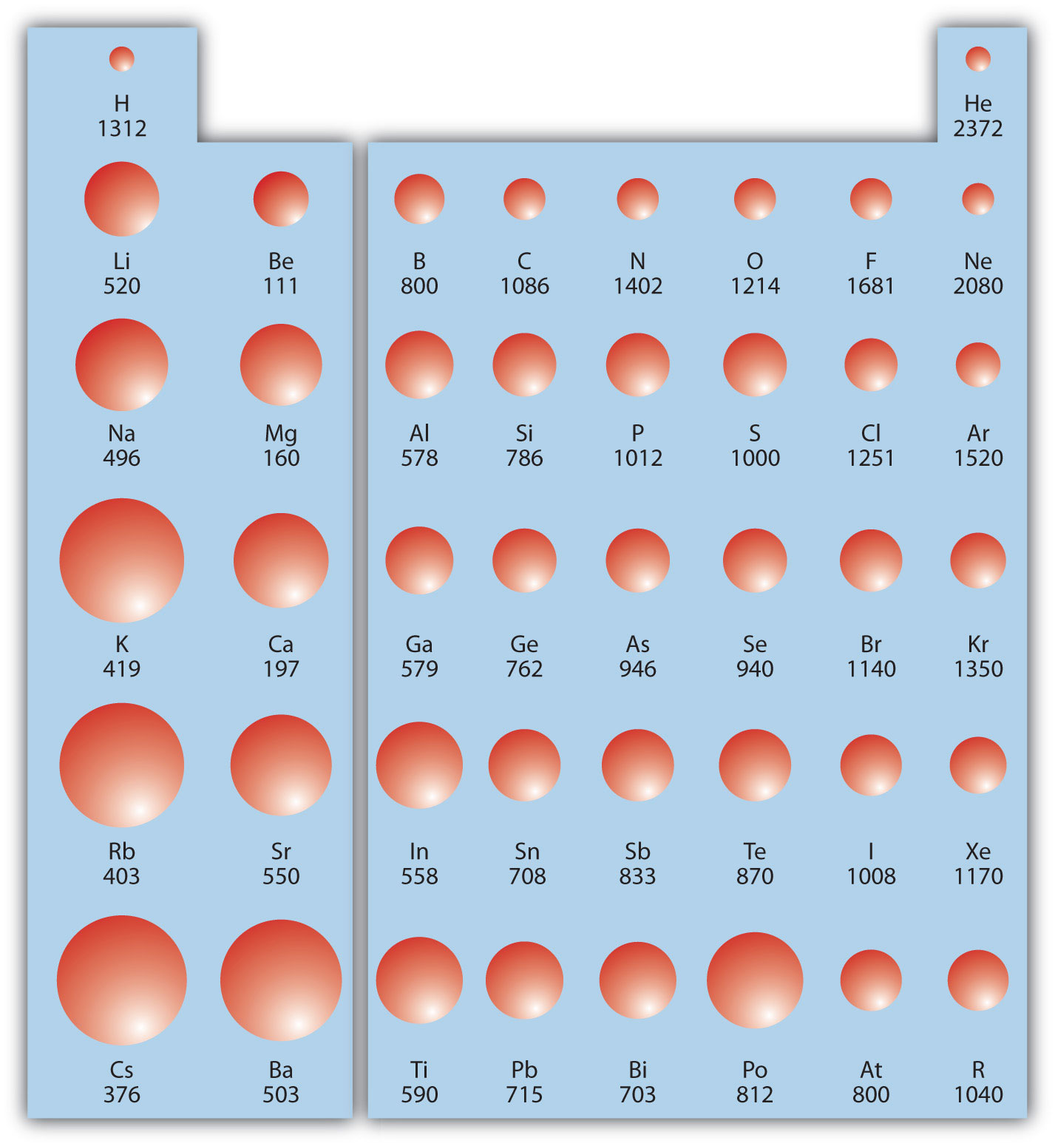
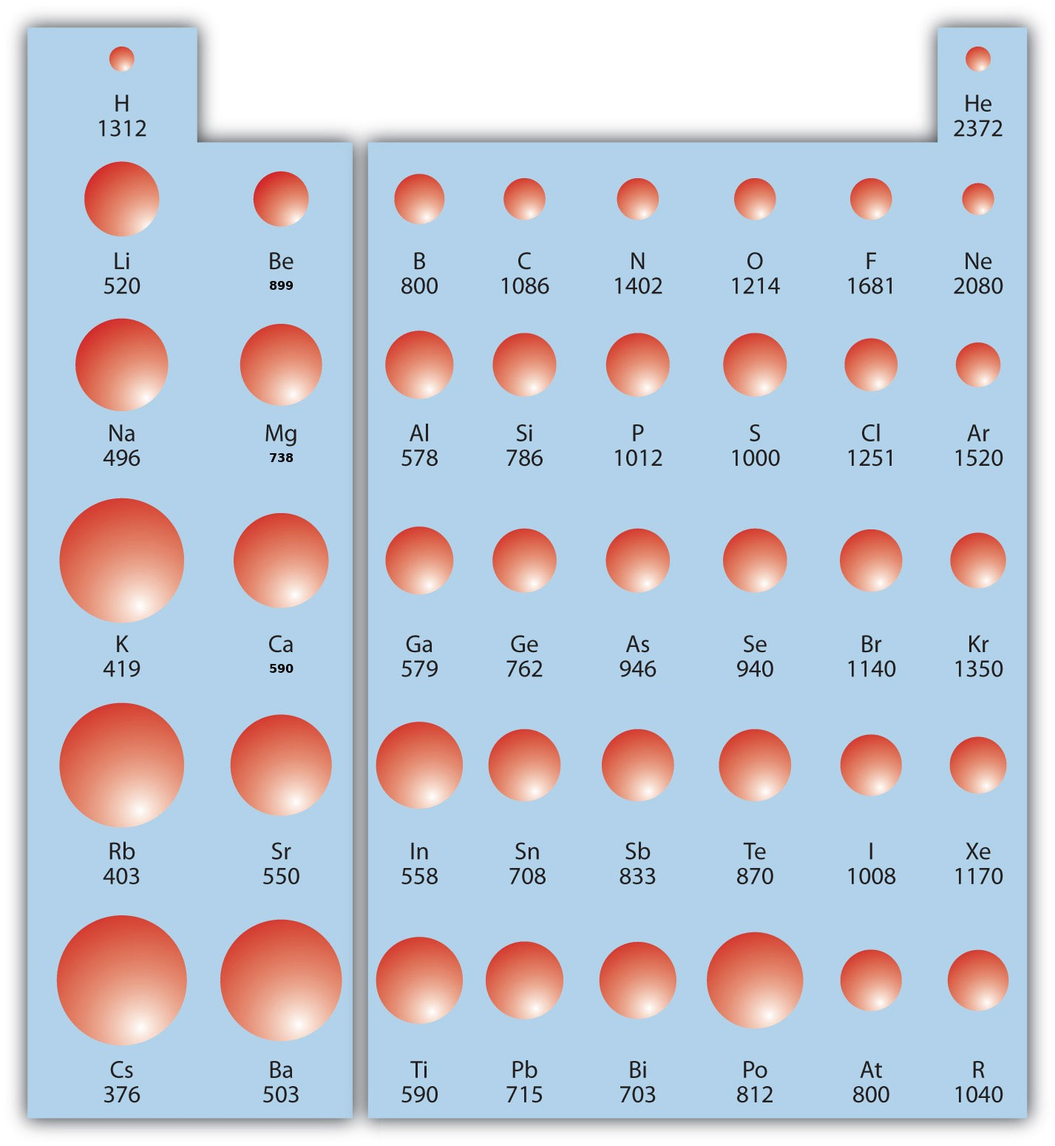
Correct calculation errors, bad constants, and misstated definitions.
The worked answers and tables now match the chemistry they describe, and the converter keeps those corrections on the next rebuild.

Changed region(s): [[0.2467, 0.5574, 0.2775, 0.5884], [0.2467, 0.3716, 0.2775, 0.4026], [0.2467, 0.2477, 0.2775, 0.2787]]

diff --git a/scripts/html_to_myst.py b/scripts/html_to_myst.py
@@ -470,6 +470,8 @@ def copy_image(ctx: Ctx, src: str) -> str:
         normalize_image(dest)
         if name == "86495288d4baa241709baaed0454b93a.jpg":
             correct_electronegativity_figure(dest)
+        if name == "e1287901f5021ca67a87677efadabcf6.jpg":
+            correct_ionization_energy_figure(dest)
         ctx.copied.add(name)
     rel = os.path.relpath(dest, ctx.out_file.parent)
     return Path(rel).as_posix()
@@ -1050,6 +1052,29 @@ def render_paragraph(el: Tag, ctx: Ctx) -> str:
     return target_line(ctx, el.get("id")) + "\n\n".join(parts)
 
 
+def correct_ionization_energy_figure(dest: Path) -> None:
+    """Figure 8.20 labels Be, Mg, and Ca with atomic radii (111, 160, 197 pm).
+
+    Those cells are ionization energies in kJ/mol: 899, 738, and 590.
+    Runs on the freshly copied source image.
+    """
+    from PIL import Image, ImageDraw, ImageFont
+
+    image = Image.open(dest).convert("RGB")
+    draw = ImageDraw.Draw(image)
+    font = ImageFont.truetype("/usr/share/fonts/truetype/dejavu/DejaVuSans-Bold.ttf", 16)
+    background = (178, 210, 235)
+    jobs = [
+        ((348, 372, 418, 400), "899", (381, 386)),
+        ((348, 606, 418, 632), "738", (381, 619)),
+        ((348, 890, 418, 918), "590", (381, 904)),
+    ]
+    for box, text, center in jobs:
+        draw.rectangle(box, fill=background)
+        draw.text(center, text, font=font, fill=(0, 0, 0), anchor="mm")
+    image.save(dest, "JPEG", quality=90, optimize=True)
+
+
 def correct_electronegativity_figure(dest: Path) -> None:
     """Figure 9.2 gives boron as 1.5 and sulfur as 3.5. Pauling values here are 2.0 and 2.5.
 
@@ -1096,6 +1121,115 @@ def apply_content_corrections(text: str) -> str:
         "Lead-208 does not spontaneously fission. Use this hypothetical equation to practice the mass-energy calculation:",
         "In the spontaneous fission of radium-226, the following reaction occurs:":
         "Radium-226 decays by alpha emission, not by the split below. Use the equation to practice the mass-energy calculation:",
+        "positive if you move the decimal point to the right and negative if you move the decimal point to the left":
+        "positive if you move the decimal point to the left and negative if you move the decimal point to the right",
+        "One Fahrenheit degree is nine-fifths the size of a Celsius degree.":
+        "One Fahrenheit degree is five-ninths the size of a Celsius degree.",
+        "about one in a million": "about one in 6,400",
+        """```{solution} ex:ball-ch04-s01-qs01-qd01-qa13
+:label: sol:ball-ch04-s01-qs01-qd01-qa13
+:class: dropdown
+
+N<sub>2</sub>(g) + 3H<sub>2</sub>(g) → 2NH<sub>3</sub>(g)
+```""":
+        """```{solution} ex:ball-ch04-s01-qs01-qd01-qa13
+:label: sol:ball-ch04-s01-qs01-qd01-qa13
+:class: dropdown
+
+N<sub>2</sub>(g) + 2H<sub>2</sub>(g) → N<sub>2</sub>H<sub>4</sub>(g)
+```""",
+        "Compounds of SO<sub>4</sub><sup>2</sup>": "Compounds of SO<sub>4</sub><sup>2−</sup>",
+        "HI(aq) + KOH(aq) → KCl(aq) + H<sub>2</sub>O(ℓ)":
+        "HI(aq) + KOH(aq) → KI(aq) + H<sub>2</sub>O(ℓ)",
+        r"{\text{4H}}_{\text{3}}{\text{PO}}_{\text{4}}": r"{\text{4H}}_{\text{3}}{\text{PO}}_{\text{3}}",
+        """```{solution} ex:ball-ch05-s07-qs01-qd01-qa01
+:label: sol:ball-ch05-s07-qs01-qd01-qa01
+:class: dropdown
+
+1.2044 × 10<sup>24</sup> molecules
+```""":
+        """```{solution} ex:ball-ch05-s07-qs01-qd01-qa01
+:label: sol:ball-ch05-s07-qs01-qd01-qa01
+:class: dropdown
+
+3.011 × 10<sup>23</sup> molecules
+```""",
+        r"\text{(0}\text{.00332 mmHg)": r"\text{(0}\text{.00120 mmHg)",
+        r"\frac{\text{(0}\text{.00332)(435)}": r"\frac{\text{(0}\text{.00120)(435)}",
+        r"$T\text{ = 1,404 K}$": r"$T\text{ = 507 K}$",
+        "at 0.26 atm and −26°C": "at 0.33 atm and −26°C",
+        r"\text{2C(s) + O}_{2}\text{(g) }\rightarrow{}\text{ 2CO}_{2}\text{(g)     }\Delta{}H\text{ = }-\text{393.5 kJ}":
+        r"\text{C(s) + O}_{2}\text{(g) }\rightarrow{}\text{ CO}_{2}\text{(g)     }\Delta{}H\text{ = }-\text{393.5 kJ}",
+        "4.69 L": "2.85 L",
+        "Na<sub>2</sub>SO<sub>4</sub>(s) | −331.64": "Na<sub>2</sub>SO<sub>4</sub>(s) | −1,387.1",
+        "PH<sub>3</sub>(g) | 22.89": "PH<sub>3</sub>(g) | 5.4",
+        "NaCl(s) | −385.9": "NaCl(s) | −411.2",
+        "1.99 × 10<sup>−22</sup> J": "1.99 × 10<sup>−25</sup> J",
+        "233 K (−60°C)": "213 K (−60°C)",
+        "| Bromine (59.5°C) | 15.4 |": "| Bromine (59.5°C) | 30.0 |",
+        "The Δ*H*<sub>vap</sub> of Br<sub>2</sub> is 15.4 kJ/mol.":
+        "The Δ*H*<sub>vap</sub> of Br<sub>2</sub> is 30.0 kJ/mol.",
+        r"\frac{15.4\text{ kJ}}{\text{ mol}}=6.43\text{ kJ}":
+        r"\frac{30.0\text{ kJ}}{\text{ mol}}=12.5\text{ kJ}",
+        "Δ*H* = −6.43 kJ.": "Δ*H* = −12.5 kJ.",
+        "10.7 kJ": "20.8 kJ",
+        "The normal vapor pressure, then, is the temperature":
+        "The normal boiling point, then, is the temperature",
+        "Atmospheric pressure varies significantly with altitude.":
+        "Atmospheric pressure varies significantly with altitude. At the summit of Mount Everest the pressure is about 250 torr, so water boils near 70°C.",
+        "at 500 torr, which is the approximate atmospheric pressure at the top of Mount Everest.":
+        "at 500 torr.",
+        "while others, such as diamond, are very hard":
+        "while some solids, such as diamond, are very hard",
+        """```{solution} ex:ball-ch10-s04-qs01-qd01-qa15
+:label: sol:ball-ch10-s04-qs01-qd01-qa15
+:class: dropdown
+
+a. molecular solid
+b. molecular solid
+c. ionic crystal
+```""":
+        """```{solution} ex:ball-ch10-s04-qs01-qd01-qa15
+:label: sol:ball-ch10-s04-qs01-qd01-qa15
+:class: dropdown
+
+a. molecular solid
+b. covalent network solid
+c. ionic crystal
+```""",
+        "about 1.4 × 10<sup>14</sup> g of gold": "about 1.4 × 10<sup>11</sup> g of gold",
+        "NaCl can dissolve up to 31.6 g per 100 g": "NaCl can dissolve up to 36.1 g per 100 g",
+        "C<sub>6</sub>H<sub>12</sub>C<sub>6</sub>": "C<sub>6</sub>H<sub>12</sub>O<sub>6</sub>",
+        "−7.5°C": "−11.2°C",
+        "only about 6 in 10<sup>8</sup> H<sub>2</sub>O molecules":
+        "only about 2 in 10<sup>9</sup> H<sub>2</sub>O molecules",
+        r"\frac{{(6.22)}^{2}}{(1.88)(13.7)}=1.502112129":
+        r"\frac{{(6.62)}^{2}}{(1.88)(13.7)}=1.702",
+        r"$\text{[H}_{2}\text{] = 1.15 M}$": r"$\text{[H}_{2}\text{] = 1.19 M}$",
+        r"{\text{CoCl}}_{\text{2}}": r"{\text{COCl}}_{\text{2}}",
+        r"${\text{MgOH}}_{\text{2}}": r"${\text{Mg(OH)}}_{\text{2}}",
+        "| Ba<sup>2+</sup> + 2e<sup>−</sup> → Ba | −1.57 |\n| Al<sup>3+</sup>+ 3e<sup>−</sup> → Al | −1.66 |\n| Mg<sup>2+</sup> + 2e<sup>−</sup> → Mg | −2.37 |\n| Na<sup>+</sup> + e<sup>−</sup> → Na | −2.714 |\n| Li<sup>+</sup> + e<sup>−</sup> → Li | −3.045 |":
+        "| Al<sup>3+</sup>+ 3e<sup>−</sup> → Al | −1.66 |\n| Mg<sup>2+</sup> + 2e<sup>−</sup> → Mg | −2.37 |\n| Na<sup>+</sup> + e<sup>−</sup> → Na | −2.714 |\n| Ba<sup>2+</sup> + 2e<sup>−</sup> → Ba | −2.91 |\n| Li<sup>+</sup> + e<sup>−</sup> → Li | −3.045 |",
+        r"\text{ + SO}_{4}^{2-}\text{ }\rightarrow{}\text{ 2PbSO}_{4}":
+        r"\text{ + 2SO}_{4}^{2-}\text{ }\rightarrow{}\text{ 2PbSO}_{4}",
+        "a tiny amount (∼0.0002 g) of the radioactive element americium":
+        "a tiny amount (∼2.6 × 10<sup>−7</sup> g) of the radioactive element americium",
+        "The half-live of americium-241 is 432 y. If 0.0002 g of americium-241":
+        "The half-life of americium-241 is 432 y. If 2.6 × 10<sup>−7</sup> g of americium-241",
+        "0.000170 g; 0.0000402 g": "2.2 × 10<sup>−7</sup> g; 5.2 × 10<sup>−8</sup> g",
+        "equal to 0.01 J/g of tissue": "equal to 0.01 J/kg of tissue",
+        "1 g of tissue absorbing 0.01 J": "1 kg of tissue absorbing 0.01 J",
+        r"\text{1 rad = 0.01 J/g}": r"\text{1 rad = 0.01 J/kg}",
+        "by only 0.002°C. This may not seem like a lot, but it is enough energy to break about 1 × 10<sup>21</sup> molecular C–C bonds":
+        "by only about 2 × 10<sup>−6</sup>°C. This may not seem like a lot, but it is enough energy to break about 1 × 10<sup>18</sup> molecular C–C bonds",
+        "0.01 J of energy per gram of tissue": "0.01 J of energy per kilogram of tissue",
+        "If the half-life of radon is 1,500 y": "If the half-life of radon is 3.823 d",
+        "6.0 × 10<sup>3</sup> y": "15.29 d",
+        "or about 4.5 × 10<sup>9</sup> y. Many analyses": "or about 7.0 × 10<sup>8</sup> y. Many analyses",
+        "(The half-life of carbon-14 is 5,370 y.)": "(The half-life of carbon-14 is 5,730 y.)",
+        "per mole of reactant is only one-tenth of the amount given off by the fission of 1 mol of uranium-235. On a mass (per gram) basis, however, hydrogen fusion gives off 10 times more energy than fission does. In addition, the product of fission is helium gas, not a wide range of isotopes (some of which are also radioactive) produced by fission.":
+        "per mole of this reaction is about one-sixth of the amount given off by the fission of 1 mol of uranium-235. On a mass (per gram) basis, however, hydrogen fusion gives off 10 times more energy than fission does. The product of fusion is helium gas. Fission produces a wide range of isotopes, some of which are also radioactive.",
+        "about 0.25 mg of americium-241": "about 2.6 × 10<sup>−7</sup> g of americium-241",
     }
     for old, new in replacements.items():
         text = text.replace(old, new)

diff --git a/chapters/ch-15-s04-uses-of-radioactive-isotopes.md b/chapters/ch-15-s04-uses-of-radioactive-isotopes.md
@@ -21,9 +21,9 @@ Tracers can also be used to follow the steps of a complex chemical reaction. Aft
 
 ## Radioactive Dating
 
-Radioactive isotopes are useful for establishing the ages of various objects. The half-life of radioactive isotopes is unaffected by any environmental factors, so the isotope acts like an internal clock. For example, if a rock is analyzed and is found to contain a certain amount of uranium-235 and a certain amount of its daughter isotope, we can conclude that a certain fraction of the original uranium-235 has radioactively decayed. If half of the uranium has decayed, then the rock has an age of one half-life of uranium-235, or about 4.5 × 10<sup>9</sup> y. Many analyses like this, using a wide variety of isotopes, have indicated that age of the earth itself is over 4 × 10<sup>9</sup> y. In another interesting example of radioactive dating, hydrogen-3 dating has been used to verify the stated vintages of some old fine wines.
+Radioactive isotopes are useful for establishing the ages of various objects. The half-life of radioactive isotopes is unaffected by any environmental factors, so the isotope acts like an internal clock. For example, if a rock is analyzed and is found to contain a certain amount of uranium-235 and a certain amount of its daughter isotope, we can conclude that a certain fraction of the original uranium-235 has radioactively decayed. If half of the uranium has decayed, then the rock has an age of one half-life of uranium-235, or about 7.0 × 10<sup>8</sup> y. Many analyses like this, using a wide variety of isotopes, have indicated that age of the earth itself is over 4 × 10<sup>9</sup> y. In another interesting example of radioactive dating, hydrogen-3 dating has been used to verify the stated vintages of some old fine wines.
 
-One isotope, carbon-14, is particularly useful in determining the age of once-living artifacts. A tiny amount of carbon-14 is produced naturally in the upper reaches of the atmosphere, and living things incorporate some of it into their tissues, building up to a constant, albeit very low, level. Once a living thing dies, it no longer acquires carbon-14; as time passes the carbon-14 that was in the tissues decays. (The half-life of carbon-14 is 5,370 y.) If a once-living artifact is discovered and analyzed many years after its death and the remaining carbon-14 is compared to the known constant level, an approximate age of the artifact can be determined. Using such methods, scientists determined that the age of the Shroud of Turin ({ref}`Figure 15.3 "Shroud of Turin" <fig:ch15:s04:s01:f01>`; purported by some to be the burial cloth of Jesus Christ and composed of flax fibers, a type of plant) is about 600–700 y, not 2,000 y as claimed by some. Scientists were also able to use radiocarbon dating to show that the age of a mummified body found in the ice of the Alps was 5,300 y.
+One isotope, carbon-14, is particularly useful in determining the age of once-living artifacts. A tiny amount of carbon-14 is produced naturally in the upper reaches of the atmosphere, and living things incorporate some of it into their tissues, building up to a constant, albeit very low, level. Once a living thing dies, it no longer acquires carbon-14; as time passes the carbon-14 that was in the tissues decays. (The half-life of carbon-14 is 5,730 y.) If a once-living artifact is discovered and analyzed many years after its death and the remaining carbon-14 is compared to the known constant level, an approximate age of the artifact can be determined. Using such methods, scientists determined that the age of the Shroud of Turin ({ref}`Figure 15.3 "Shroud of Turin" <fig:ch15:s04:s01:f01>`; purported by some to be the burial cloth of Jesus Christ and composed of flax fibers, a type of plant) is about 600–700 y, not 2,000 y as claimed by some. Scientists were also able to use radiocarbon dating to show that the age of a mummified body found in the ice of the Alps was 5,300 y.
 
 ```{figure} ../images/figures/3ff2ce6f48a6daf926b31bb062b7db53.jpg
 :label: fig:ch15:s04:s01:f01

diff --git a/chapters/ch-10-s01-intermolecular-forces.md b/chapters/ch-10-s01-intermolecular-forces.md
@@ -26,7 +26,7 @@ Molecules with a permanent dipole moment experience **dipole-dipole interactions
 Dipole-Dipole Interactions. Oppositely charged ends of polar molecules attract each other.
 ```
 
-An unusually strong form of dipole-dipole interaction is called **hydrogen bonding** (*The very strong interaction between molecules due to H atoms being bonded to N, O, or F atoms.*). Hydrogen bonding is found in molecules with an H atom bonded to an N atom, an O atom, or an F atom. Such covalent bonds are very polar, and the dipole-dipole interaction between these bonds in two or more molecules is strong enough to create a new category of intermolecular force. Hydrogen bonding is the reason water has unusual properties. For such a small molecule (its molar mass is only 18 g/mol), H<sub>2</sub>O has relatively high melting and boiling points. Its boiling point is 373 K (100°C), while the boiling point of a similar molecule, H<sub>2</sub>S, is 233 K (−60°C). This is because H<sub>2</sub>O molecules experience hydrogen bonding, while H<sub>2</sub>S molecules do not. This strong attraction between H<sub>2</sub>O molecules requires additional energy to separate the molecules in the condensed phase, so its boiling point is higher than would be expected. Hydrogen bonding is also responsible for water’s ability as a solvent, its high heat capacity, and its ability to expand when freezing; the molecules line up in such a way that there is extra space between the molecules, increasing its volume in the solid state ({ref}`Figure 10.2 "Hydrogen Bonding" <fig:ch10:s01:f02>`).
+An unusually strong form of dipole-dipole interaction is called **hydrogen bonding** (*The very strong interaction between molecules due to H atoms being bonded to N, O, or F atoms.*). Hydrogen bonding is found in molecules with an H atom bonded to an N atom, an O atom, or an F atom. Such covalent bonds are very polar, and the dipole-dipole interaction between these bonds in two or more molecules is strong enough to create a new category of intermolecular force. Hydrogen bonding is the reason water has unusual properties. For such a small molecule (its molar mass is only 18 g/mol), H<sub>2</sub>O has relatively high melting and boiling points. Its boiling point is 373 K (100°C), while the boiling point of a similar molecule, H<sub>2</sub>S, is 213 K (−60°C). This is because H<sub>2</sub>O molecules experience hydrogen bonding, while H<sub>2</sub>S molecules do not. This strong attraction between H<sub>2</sub>O molecules requires additional energy to separate the molecules in the condensed phase, so its boiling point is higher than would be expected. Hydrogen bonding is also responsible for water’s ability as a solvent, its high heat capacity, and its ability to expand when freezing; the molecules line up in such a way that there is extra space between the molecules, increasing its volume in the solid state ({ref}`Figure 10.2 "Hydrogen Bonding" <fig:ch10:s01:f02>`).
 
 ```{figure} ../images/figures/30e252771debb37fad7fc5cbc1c405ae.jpg
 :label: fig:ch10:s01:f02

diff --git a/chapters/ch-15-s03-units-of-radioactivity.md b/chapters/ch-15-s03-units-of-radioactivity.md
@@ -105,10 +105,10 @@ A sample of radon has an activity of 60,000 Bq. If the half-life of radon is 15 
 
 Other measures of radioactivity are based on the effects it has on living tissue. Radioactivity can transfer energy to tissues in two ways: through the kinetic energy of the particles hitting the tissue and through the electromagnetic energy of the gamma rays being absorbed by the tissue. Either way, the transferred energy—like the thermal energy from boiling water—can damage the tissue.
 
-The **rad** (*A unit of radioactive exposure equal to 0.01 J/g of tissue.*) (an acronym for radiation absorbed dose) is a unit equivalent to 1 g of tissue absorbing 0.01 J:
+The **rad** (*A unit of radioactive exposure equal to 0.01 J/kg of tissue.*) (an acronym for radiation absorbed dose) is a unit equivalent to 1 kg of tissue absorbing 0.01 J:
 
 $$
-\text{1 rad = 0.01 J/g}
+\text{1 rad = 0.01 J/kg}
 $$
 
 Another unit of radiation absorption is the gray (Gy):
@@ -117,7 +117,7 @@ $$
 \text{1 Gy = 100 rad}
 $$
 
-The rad is more common. To get an idea of the amount of energy this represents, consider that the absorption of 1 rad by 70,000 g of water (approximately the same mass as a 150 lb person) would increase the temperature of the water by only 0.002°C. This may not seem like a lot, but it is enough energy to break about 1 × 10<sup>21</sup> molecular C–C bonds in a person’s body. That amount of damage would not be desirable.
+The rad is more common. To get an idea of the amount of energy this represents, consider that the absorption of 1 rad by 70,000 g of water (approximately the same mass as a 150 lb person) would increase the temperature of the water by only about 2 × 10<sup>−6</sup>°C. This may not seem like a lot, but it is enough energy to break about 1 × 10<sup>18</sup> molecular C–C bonds in a person’s body. That amount of damage would not be desirable.
 
 Predicting the effects of radiation is complicated by the fact that different types of emissions affect various tissues differently. To quantify these effects, the unit **rem** (*A unit of radioactive exposure that includes a factor to account for the type of radioactivity.*) (an acronym for röntgen equivalent man) is defined as
 
@@ -196,7 +196,7 @@ Define *rad*.
 :label: sol:ball-ch15-s03-qs01-qd01-qa01
 :class: dropdown
 
-a unit of radioactive exposure equal to 0.01 J of energy per gram of tissue
+a unit of radioactive exposure equal to 0.01 J of energy per kilogram of tissue
 ```
 
 ```{exercise}
@@ -235,14 +235,14 @@ Define *curie*.
 
 **Exercise 5.**
 
-A sample of radon gas has an activity of 140.0 mCi. If the half-life of radon is 1,500 y, how long before the activity of the sample is 8.75 mCi?
+A sample of radon gas has an activity of 140.0 mCi. If the half-life of radon is 3.823 d, how long before the activity of the sample is 8.75 mCi?
 ```
 
 ```{solution} ex:ball-ch15-s03-qs01-qd01-qa05
 :label: sol:ball-ch15-s03-qs01-qd01-qa05
 :class: dropdown
 
-6.0 × 10<sup>3</sup> y
+15.29 d
 ```
 
 ```{exercise}

diff --git a/chapters/ch-10-s03-properties-of-liquids.md b/chapters/ch-10-s03-properties-of-liquids.md
@@ -38,7 +38,7 @@ Equilibrium. At some point, the number of particles entering the vapor phase wil
 
 Understand that the liquid has not stopped evaporating. The reverse process—condensation—is occurring as fast as evaporation is, so there is no net change in the amount of vapor in the system. The term **dynamic equilibrium** (*A situation in which a process still occurs but the opposite process also occurs at the same rate so that there is no net change in the system.*) represents a situation in which a process still occurs, but the opposite process also occurs at the same rate so that there is no net change in the system.
 
-The vapor pressure for a substance is dependent on the temperature of the substance; as the temperature increases, so does the vapor pressure. {ref}`Figure 10.7 "Plots of Vapor Pressure versus Temperature for Several Liquids" <fig:ch10:s03:f03>` is a plot of vapor pressure versus temperature for several liquids. Having defined vapor pressure, we can also redefine the *boiling point* of a liquid: the temperature at which the vapor pressure of a liquid equals the surrounding environmental pressure. The normal vapor pressure, then, is the temperature at which the vapor pressure is 760 torr, or exactly 1 atm. Thus boiling points vary with surrounding pressure, a fact that can have large implications on cooking foods at lower- or higher-than-normal elevations. Atmospheric pressure varies significantly with altitude.
+The vapor pressure for a substance is dependent on the temperature of the substance; as the temperature increases, so does the vapor pressure. {ref}`Figure 10.7 "Plots of Vapor Pressure versus Temperature for Several Liquids" <fig:ch10:s03:f03>` is a plot of vapor pressure versus temperature for several liquids. Having defined vapor pressure, we can also redefine the *boiling point* of a liquid: the temperature at which the vapor pressure of a liquid equals the surrounding environmental pressure. The normal boiling point, then, is the temperature at which the vapor pressure is 760 torr, or exactly 1 atm. Thus boiling points vary with surrounding pressure, a fact that can have large implications on cooking foods at lower- or higher-than-normal elevations. Atmospheric pressure varies significantly with altitude. At the summit of Mount Everest the pressure is about 250 torr, so water boils near 70°C.
 
 ```{figure} ../images/figures/6d3ad33c9ac18fe42b14713873328f50.jpg
 :label: fig:ch10:s03:f03
@@ -54,7 +54,7 @@ Plots of Vapor Pressure versus Temperature for Several Liquids. The vapor pressu
 
 **Example 4**
 
-Use {ref}`Figure 10.7 "Plots of Vapor Pressure versus Temperature for Several Liquids" <fig:ch10:s03:f03>` to estimate the boiling point of water at 500 torr, which is the approximate atmospheric pressure at the top of Mount Everest.
+Use {ref}`Figure 10.7 "Plots of Vapor Pressure versus Temperature for Several Liquids" <fig:ch10:s03:f03>` to estimate the boiling point of water at 500 torr.
 ```
 
 ```{solution} ex:ball-ch10-s03-n02

diff --git a/chapters/ch-03-s01-atomic-theory.md b/chapters/ch-03-s01-atomic-theory.md
@@ -47,7 +47,7 @@ The Structure of the Atom. Atoms have protons and neutrons in the center, making
 
 The modern atomic theory states that atoms of one element are the same, while atoms of different elements are different. What makes atoms of different elements different? The fundamental characteristic that all atoms of the same element share is the *number of protons*. All atoms of hydrogen have one and only one proton in the nucleus; all atoms of iron have 26 protons in the nucleus. This number of protons is so important to the identity of an atom that it is called the **atomic number** (*The number of protons in an atom.*) of the element. Thus, hydrogen has an atomic number of 1, while iron has an atomic number of 26. Each element has its own characteristic atomic number.
 
-Atoms of the same element can have different numbers of neutrons, however. Atoms of the same element (i.e., atoms with the same number of protons) with different numbers of neutrons are called **isotopes** (*Atoms of the same element that have different numbers of neutrons.*). Most naturally occurring elements exist as isotopes. For example, most hydrogen atoms have a single proton in their nucleus. However, a small number (about one in a million) of hydrogen atoms have a proton and a neutron in their nuclei. This particular isotope of hydrogen is called deuterium. A very rare form of hydrogen has one proton and two neutrons in the nucleus; this isotope of hydrogen is called tritium. The sum of the number of protons and neutrons in the nucleus is called the **mass number** (*The sum of the number of protons and neutrons in a nucleus.*) of the isotope.
+Atoms of the same element can have different numbers of neutrons, however. Atoms of the same element (i.e., atoms with the same number of protons) with different numbers of neutrons are called **isotopes** (*Atoms of the same element that have different numbers of neutrons.*). Most naturally occurring elements exist as isotopes. For example, most hydrogen atoms have a single proton in their nucleus. However, a small number (about one in 6,400) of hydrogen atoms have a proton and a neutron in their nuclei. This particular isotope of hydrogen is called deuterium. A very rare form of hydrogen has one proton and two neutrons in the nucleus; this isotope of hydrogen is called tritium. The sum of the number of protons and neutrons in the nucleus is called the **mass number** (*The sum of the number of protons and neutrons in a nucleus.*) of the isotope.
 
 Neutral atoms have the same number of electrons as they have protons, so their overall charge is zero. However, as we shall see later, this will not always be the case.
 

diff --git a/chapters/ch-07-s06-formation-reactions.md b/chapters/ch-07-s06-formation-reactions.md
@@ -160,12 +160,12 @@ We must multiply the first reaction by 2 to get the correct overall balanced equ
 | AgBr(s) | −100.37 | CaCl<sub>2</sub>(s) | −795.80 | I<sub>2</sub>(s) | 0 | NaN<sub>3</sub>(s) | 21.71 |
 | AgCl(s) | −127.01 | CaCO<sub>3</sub>(s, arag) | −1,207.1 | K(s) | 0 | Na<sub>2</sub>CO<sub>3</sub>(s) | −1,130.77 |
 | Al(s) | 0 | CaCO<sub>3</sub>(s, calc) | −1,206.9 | KBr(s) | −393.8 | Na<sub>2</sub>O(s) | −417.98 |
-| Al<sub>2</sub>O<sub>3</sub>(s) | −1,675.7 | Cl<sub>2</sub>(g) | 0 | KCl(s) | −436.5 | Na<sub>2</sub>SO<sub>4</sub>(s) | −331.64 |
+| Al<sub>2</sub>O<sub>3</sub>(s) | −1,675.7 | Cl<sub>2</sub>(g) | 0 | KCl(s) | −436.5 | Na<sub>2</sub>SO<sub>4</sub>(s) | −1,387.1 |
 | Ar(g) | 0 | Cr(s) | 0 | KF(s) | −567.3 | Ne(g) | 0 |
 | Au(s) | 0 | Cr<sub>2</sub>O<sub>3</sub>(s) | −1,134.70 | KI(s) | −327.9 | Ni(s) | 0 |
 | BaSO<sub>4</sub>(s) | −1,473.19 | Cs(s) | 0 | Li(s) | 0 | O<sub>2</sub>(g) | 0 |
 | Br<sub>2</sub>(ℓ) | 0 | Cu(s) | 0 | LiBr(s) | −351.2 | O<sub>3</sub>(g) | 142.67 |
-| C(s, dia) | 1.897 | F<sub>2</sub>(g) | 0 | LiCl(s) | −408.27 | PH<sub>3</sub>(g) | 22.89 |
+| C(s, dia) | 1.897 | F<sub>2</sub>(g) | 0 | LiCl(s) | −408.27 | PH<sub>3</sub>(g) | 5.4 |
 | C(s, gra) | 0 | Fe(s) | 0 | LiF(s) | −616.0 | Pb(s) | 0 |
 | CCl<sub>4</sub>(ℓ) | −128.4 | Fe<sub>2</sub>(SO<sub>4</sub>)<sub>3</sub>(s) | −2,583.00 | LiI(s) | −270.4 | PbCl<sub>2</sub>(s) | −359.41 |
 | CH<sub>2</sub>O(g) | −115.90 | Fe<sub>2</sub>O<sub>3</sub>(s) | −825.5 | Mg(s) | 0 | PbO<sub>2</sub>(s) | −274.47 |
@@ -179,7 +179,7 @@ We must multiply the first reaction by 2 to get the correct overall balanced equ
 | C<sub>6</sub>H<sub>12</sub>(ℓ) | −157.7 | H<sub>2</sub>(g) | 0 | N<sub>2</sub>O<sub>5</sub>(g) | 11.30 | U(s) | 0 |
 | C<sub>6</sub>H<sub>12</sub>O<sub>6</sub>(s) | −1277 | H<sub>2</sub>O(g) | −241.8 | Na(s) | 0 | UF<sub>6</sub>(s) | −2,197.0 |
 | C<sub>6</sub>H<sub>14</sub>(ℓ) | −198.7 | H<sub>2</sub>O(ℓ) | −285.83 | NaBr(s) | −361.1 | UO<sub>2</sub>(s) | −1,085.0 |
-| C<sub>6</sub>H<sub>5</sub>CH<sub>3</sub>(ℓ) | 12.0 | H<sub>2</sub>O(s) | −292.72 | NaCl(s) | −385.9 | Xe(g) | 0 |
+| C<sub>6</sub>H<sub>5</sub>CH<sub>3</sub>(ℓ) | 12.0 | H<sub>2</sub>O(s) | −292.72 | NaCl(s) | −411.2 | Xe(g) | 0 |
 | C<sub>6</sub>H<sub>6</sub>(ℓ) | 48.95 | He(g) | 0 | NaF(s) | −576.6 | Zn(s) | 0 |
 | C<sub>10</sub>H<sub>8</sub>(s) | 77.0 | Hg(ℓ) | 0 | NaI(s) | −287.8 | ZnCl<sub>2</sub>(s) | −415.05 |
 | C<sub>12</sub>H<sub>22</sub>O<sub>11</sub>(s) | −2,221.2 |   |   |   |   |   |   |

diff --git a/chapters/ch-10-s04-solids.md b/chapters/ch-10-s04-solids.md
@@ -16,7 +16,7 @@ A solid is like a liquid in that particles are in contact with each other. Solid
 
 The solid phase has several characteristics. First, solids maintain their shape. They do not fill their entire containers like gases do, and they do not adopt the shape of their containers like liquids do. They cannot be easily compressed like gases can, and they have relatively high densities.
 
-Solids may also demonstrate a variety of properties. For example, many metals can be beaten into thin sheets or drawn into wires, while compounds such as NaCl will shatter if they are struck. Some metals, such as sodium and potassium, are rather soft, while others, such as diamond, are very hard and can easily scratch other substances. Appearances differ as well: most metals are shiny and silvery, but sulfur (a nonmetal) is yellow, and ionic compounds can take on a rainbow of colors. Solid metals conduct electricity and heat, while ionic solids do not. Many solids are opaque, but some are transparent. Some dissolve in water, but some do not. {ref}`Figure 10.13 "Properties of Solids" <fig:ch10:s04:f01>` shows two solids that exemplify the similar and dissimilar properties of solids.
+Solids may also demonstrate a variety of properties. For example, many metals can be beaten into thin sheets or drawn into wires, while compounds such as NaCl will shatter if they are struck. Some metals, such as sodium and potassium, are rather soft, while some solids, such as diamond, are very hard and can easily scratch other substances. Appearances differ as well: most metals are shiny and silvery, but sulfur (a nonmetal) is yellow, and ionic compounds can take on a rainbow of colors. Solid metals conduct electricity and heat, while ionic solids do not. Many solids are opaque, but some are transparent. Some dissolve in water, but some do not. {ref}`Figure 10.13 "Properties of Solids" <fig:ch10:s04:f01>` shows two solids that exemplify the similar and dissimilar properties of solids.
 
 ```{figure} ../images/figures/bcb1653087c7a917e9e7176e915d1461.jpg
 :label: fig:ch10:s04:f01
@@ -325,7 +325,7 @@ c. CsF
 :class: dropdown
 
 a. molecular solid
-b. molecular solid
+b. covalent network solid
 c. ionic crystal
 ```
 

diff --git a/chapters/ch-11-s01-some-definitions.md b/chapters/ch-11-s01-some-definitions.md
@@ -49,7 +49,7 @@ solute: HCl(g); solvent: CH<sub>3</sub>OH
 
 One important concept of solutions is in defining how much solute is dissolved in a given amount of solvent. This concept is called **concentration** (*How much solute is dissolved in a given amount of solvent.*). Various words are used to describe the relative amounts of solute. **Dilute** (*A solution with very little solute.*) describes a solution that has very little solute, while **concentrated** (*A solution with a lot of solute.*) describes a solution that has a lot of solute. One problem is that these terms are qualitative; they describe more or less but not exactly how much.
 
-In most cases, only a certain maximum amount of solute can be dissolved in a given amount of solvent. This maximum amount is called the **solubility** (*The maximum amount of a solute that can be dissolved in a given amount of a solvent.*) of the solute. It is usually expressed in terms of the amount of solute that can dissolve in 100 g of the solvent at a given temperature. {ref}`Table 11.2 "Solubilities of Some Ionic Compounds" <tbl:ch11:s01:t01>` lists the solubilities of some simple ionic compounds. These solubilities vary widely: NaCl can dissolve up to 31.6 g per 100 g of H<sub>2</sub>O, while AgCl can dissolve only 0.00019 g per 100 g of H<sub>2</sub>O.
+In most cases, only a certain maximum amount of solute can be dissolved in a given amount of solvent. This maximum amount is called the **solubility** (*The maximum amount of a solute that can be dissolved in a given amount of a solvent.*) of the solute. It is usually expressed in terms of the amount of solute that can dissolve in 100 g of the solvent at a given temperature. {ref}`Table 11.2 "Solubilities of Some Ionic Compounds" <tbl:ch11:s01:t01>` lists the solubilities of some simple ionic compounds. These solubilities vary widely: NaCl can dissolve up to 36.1 g per 100 g of H<sub>2</sub>O, while AgCl can dissolve only 0.00019 g per 100 g of H<sub>2</sub>O.
 
 ```{table} Solubilities of Some Ionic Compounds
 :label: tbl:ch11:s01:t01

diff --git a/chapters/ch-10-s02-phase-transitions-melting-boil.md b/chapters/ch-10-s02-phase-transitions-melting-boil.md
@@ -90,7 +90,7 @@ Like the solid/liquid phase change, the liquid/gas phase change involves energy.
 | Substance (Normal Boiling Point) | Δ*H*<sub>vap</sub> (kJ/mol) |
 | --- | --- |
 | Water (100°C) | 40.68 |
-| Bromine (59.5°C) | 15.4 |
+| Bromine (59.5°C) | 30.0 |
 | Benzene (80.1°C) | 30.8 |
 | Ethanol (78.3°C) | 38.6 |
 | Mercury (357°C) | 59.23 |
@@ -108,13 +108,13 @@ What is the energy change when 66.7 g of Br<sub>2</sub>(g) condense to a liquid 
 :label: sol:ball-ch10-s02-n03
 :class: dropdown
 
-The Δ*H*<sub>vap</sub> of Br<sub>2</sub> is 15.4 kJ/mol. Even though this is a condensation process, we can still use the numerical value of Δ*H*<sub>vap</sub> as long as we realize that we must take energy out, so the Δ*H* value will be negative. To determine the magnitude of the energy change, we must first convert the amount of Br<sub>2</sub> to moles. Then we can use Δ*H*<sub>vap</sub> as a conversion factor.
+The Δ*H*<sub>vap</sub> of Br<sub>2</sub> is 30.0 kJ/mol. Even though this is a condensation process, we can still use the numerical value of Δ*H*<sub>vap</sub> as long as we realize that we must take energy out, so the Δ*H* value will be negative. To determine the magnitude of the energy change, we must first convert the amount of Br<sub>2</sub> to moles. Then we can use Δ*H*<sub>vap</sub> as a conversion factor.
 
 $$
-66.7{\text{ g Br}}_{2}\times{}\frac{1{\text{ mol Br}}_{2}}{159.8\text{ g}}\times{}\frac{15.4\text{ kJ}}{\text{ mol}}=6.43\text{ kJ}
+66.7{\text{ g Br}}_{2}\times{}\frac{1{\text{ mol Br}}_{2}}{159.8\text{ g}}\times{}\frac{30.0\text{ kJ}}{\text{ mol}}=12.5\text{ kJ}
 $$
 
-Because the process is exothermic, the actual value will be negative: Δ*H* = −6.43 kJ.
+Because the process is exothermic, the actual value will be negative: Δ*H* = −12.5 kJ.
 ```
 
 ```{exercise}
@@ -253,7 +253,7 @@ What is the energy change when 111 g of Br<sub>2</sub> boil at 59.5°C?
 :label: sol:ball-ch10-s02-qs01-qd01-qa07
 :class: dropdown
 
-10.7 kJ
+20.8 kJ
 ```
 
 ```{exercise}

diff --git a/chapters/ch-11-s00-solutions.md b/chapters/ch-11-s00-solutions.md
@@ -31,7 +31,7 @@ Because it is highly likely that life on Earth originated in the oceans, it shou
 
 Most ions are more abundant in seawater than they are in blood, with some notable exceptions. There is far more hydrogen carbonate ion (HCO<sub>3</sub><sup>−</sup>) in blood than in seawater; indeed, it is the third most common ion in blood. This difference is significant because the HCO<sub>3</sub><sup>−</sup> ion and some related species [CO<sub>3</sub><sup>2−</sup>, CO<sub>2</sub>(aq)] have an important role in controlling the acid-base properties of blood. Although there is a negligible amount of the two hydrogen phosphate ions (HPO<sub>4</sub><sup>2−</sup> and H<sub>2</sub>PO<sub>4</sub><sup>−</sup>) in seawater, there is a small amount in blood, where these ions affect acid-base properties. Another notable difference is that blood has a negligible amount of the sulfate ion (SO<sub>4</sub><sup>2−</sup>), but this ion is present in seawater.
 
-Gold is present in seawater—but only a tiny amount. A current estimate of the amount of gold is about 1 part per every 1 × 10<sup>13</sup> parts of seawater, which makes the extraction of gold from seawater unfeasible. However, it does mean that there are about 1.4 × 10<sup>14</sup> g of gold in the world’s oceans!
+Gold is present in seawater—but only a tiny amount. A current estimate of the amount of gold is about 1 part per every 1 × 10<sup>13</sup> parts of seawater, which makes the extraction of gold from seawater unfeasible. However, it does mean that there are about 1.4 × 10<sup>11</sup> g of gold in the world’s oceans!
 ```
 
 A solution is a *homogeneous mixture*—a mixture of two or more substances that are so intimately mixed that the mixture behaves in many ways like a single substance. Many chemical reactions occur when the reactants are dissolved in solution. In this chapter, we will introduce concepts that are applicable to solutions and the chemical reactions that occur in them.

diff --git a/chapters/ch-14-s03-applications-of-redox-reaction.md b/chapters/ch-14-s03-applications-of-redox-reaction.md
@@ -70,10 +70,10 @@ is assigned to be exactly 0.000 V under standard conditions of pressure and conc
 | Cr<sup>3+</sup> + 3e<sup>−</sup> → Cr | −0.74 |
 | Zn<sup>2+</sup> + 2e<sup>−</sup> → Zn | −0.76 |
 | Cr<sup>2+</sup> + 2e<sup>−</sup> → Cr | −0.91 |
-| Ba<sup>2+</sup> + 2e<sup>−</sup> → Ba | −1.57 |
 | Al<sup>3+</sup>+ 3e<sup>−</sup> → Al | −1.66 |
 | Mg<sup>2+</sup> + 2e<sup>−</sup> → Mg | −2.37 |
 | Na<sup>+</sup> + e<sup>−</sup> → Na | −2.714 |
+| Ba<sup>2+</sup> + 2e<sup>−</sup> → Ba | −2.91 |
 | Li<sup>+</sup> + e<sup>−</sup> → Li | −3.045 |
 ```
 
@@ -237,7 +237,7 @@ Credits: [Cutaway view of a 1953 automotive lead-acid battery — National Insti
 ```
 
 $$
-\text{Pb + PbO}_{2}\text{ + 4H}^{+}\text{ + SO}_{4}^{2-}\text{ }\rightarrow{}\text{ 2PbSO}_{4}\text{ + 2H}_{2}\text{O}
+\text{Pb + PbO}_{2}\text{ + 4H}^{+}\text{ + 2SO}_{4}^{2-}\text{ }\rightarrow{}\text{ 2PbSO}_{4}\text{ + 2H}_{2}\text{O}
 $$
 
 The redox reaction produces about 2 V, but it is typical to tie several individual batteries together to generate a larger voltage. The lead storage battery has the distinction that the product of both half reactions is PbSO<sub>4</sub>, which as a solid accumulates on the many plates within each cell ({ref}`Figure 14.4 "Lead Storage Batteries" <fig:ch14:s03:f04>`). The lead storage battery is a secondary battery, as it can be recharged and reused many times. Because it is based on lead, these batteries are rather heavy. They should also be recycled when replaced so that potentially dangerous lead does not escape into the environment. Because of their characteristics, lead storage batteries are used to start large engines in automobiles, boats, and airplanes.
